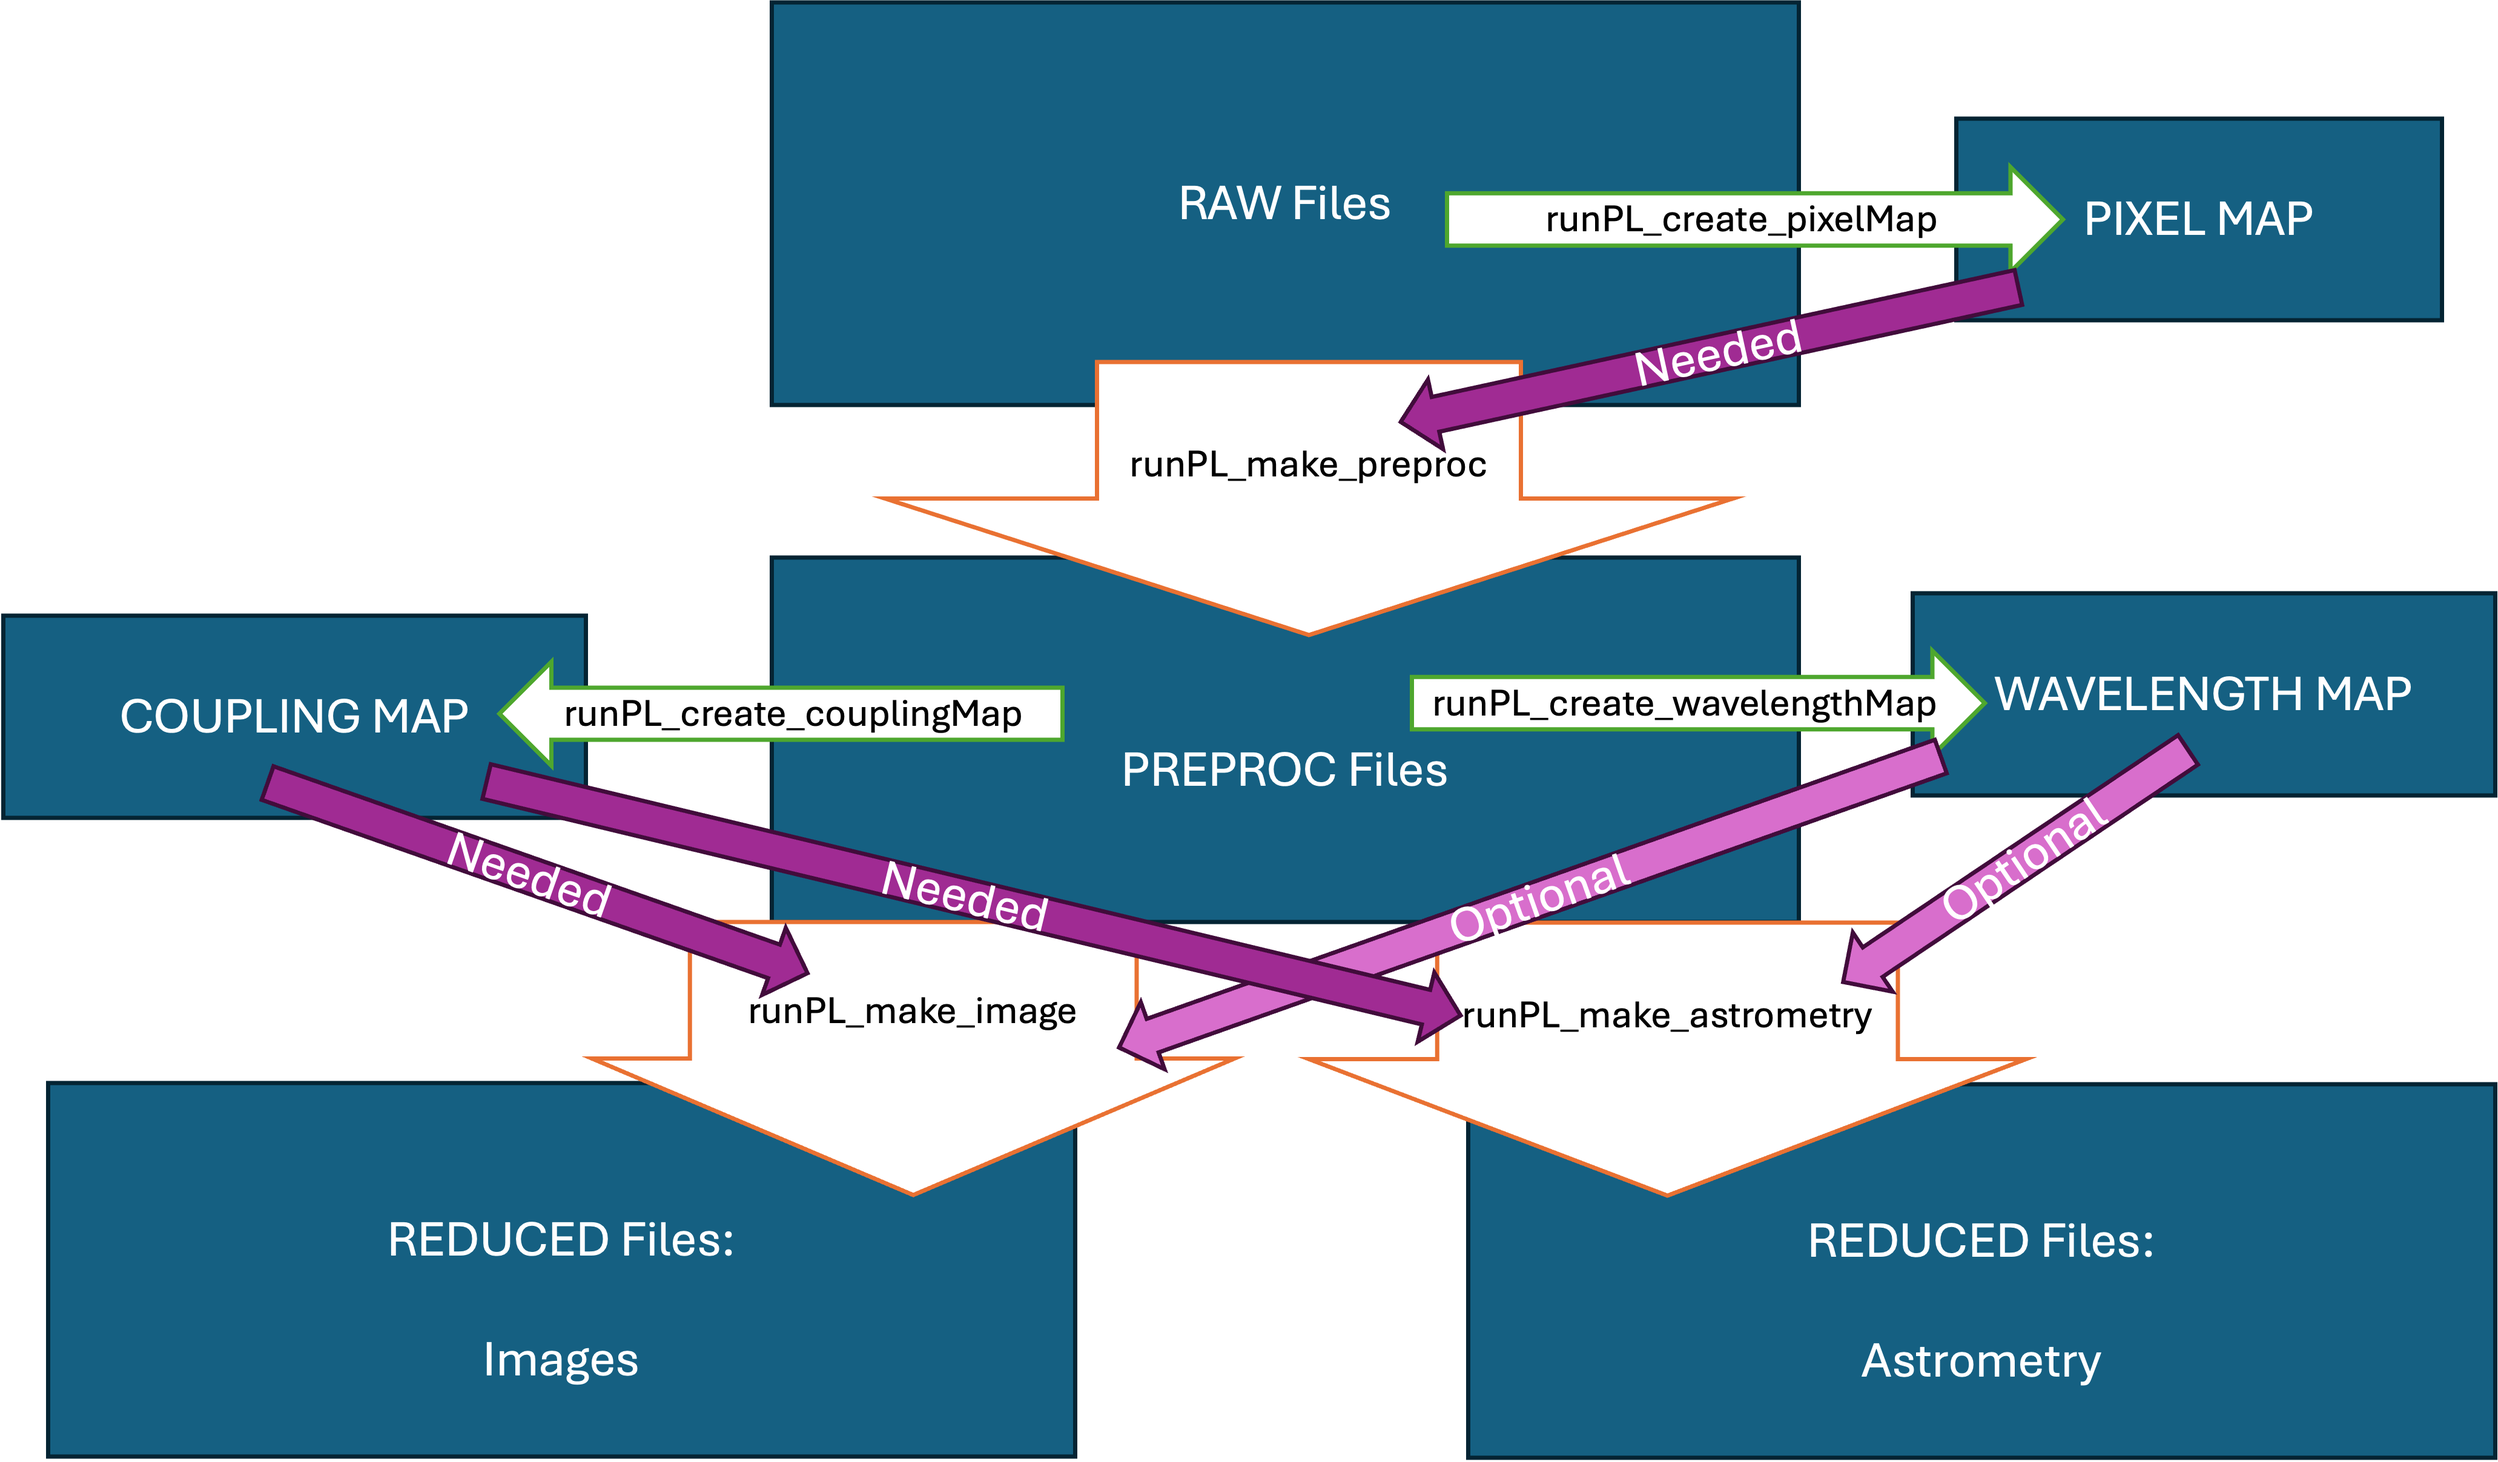
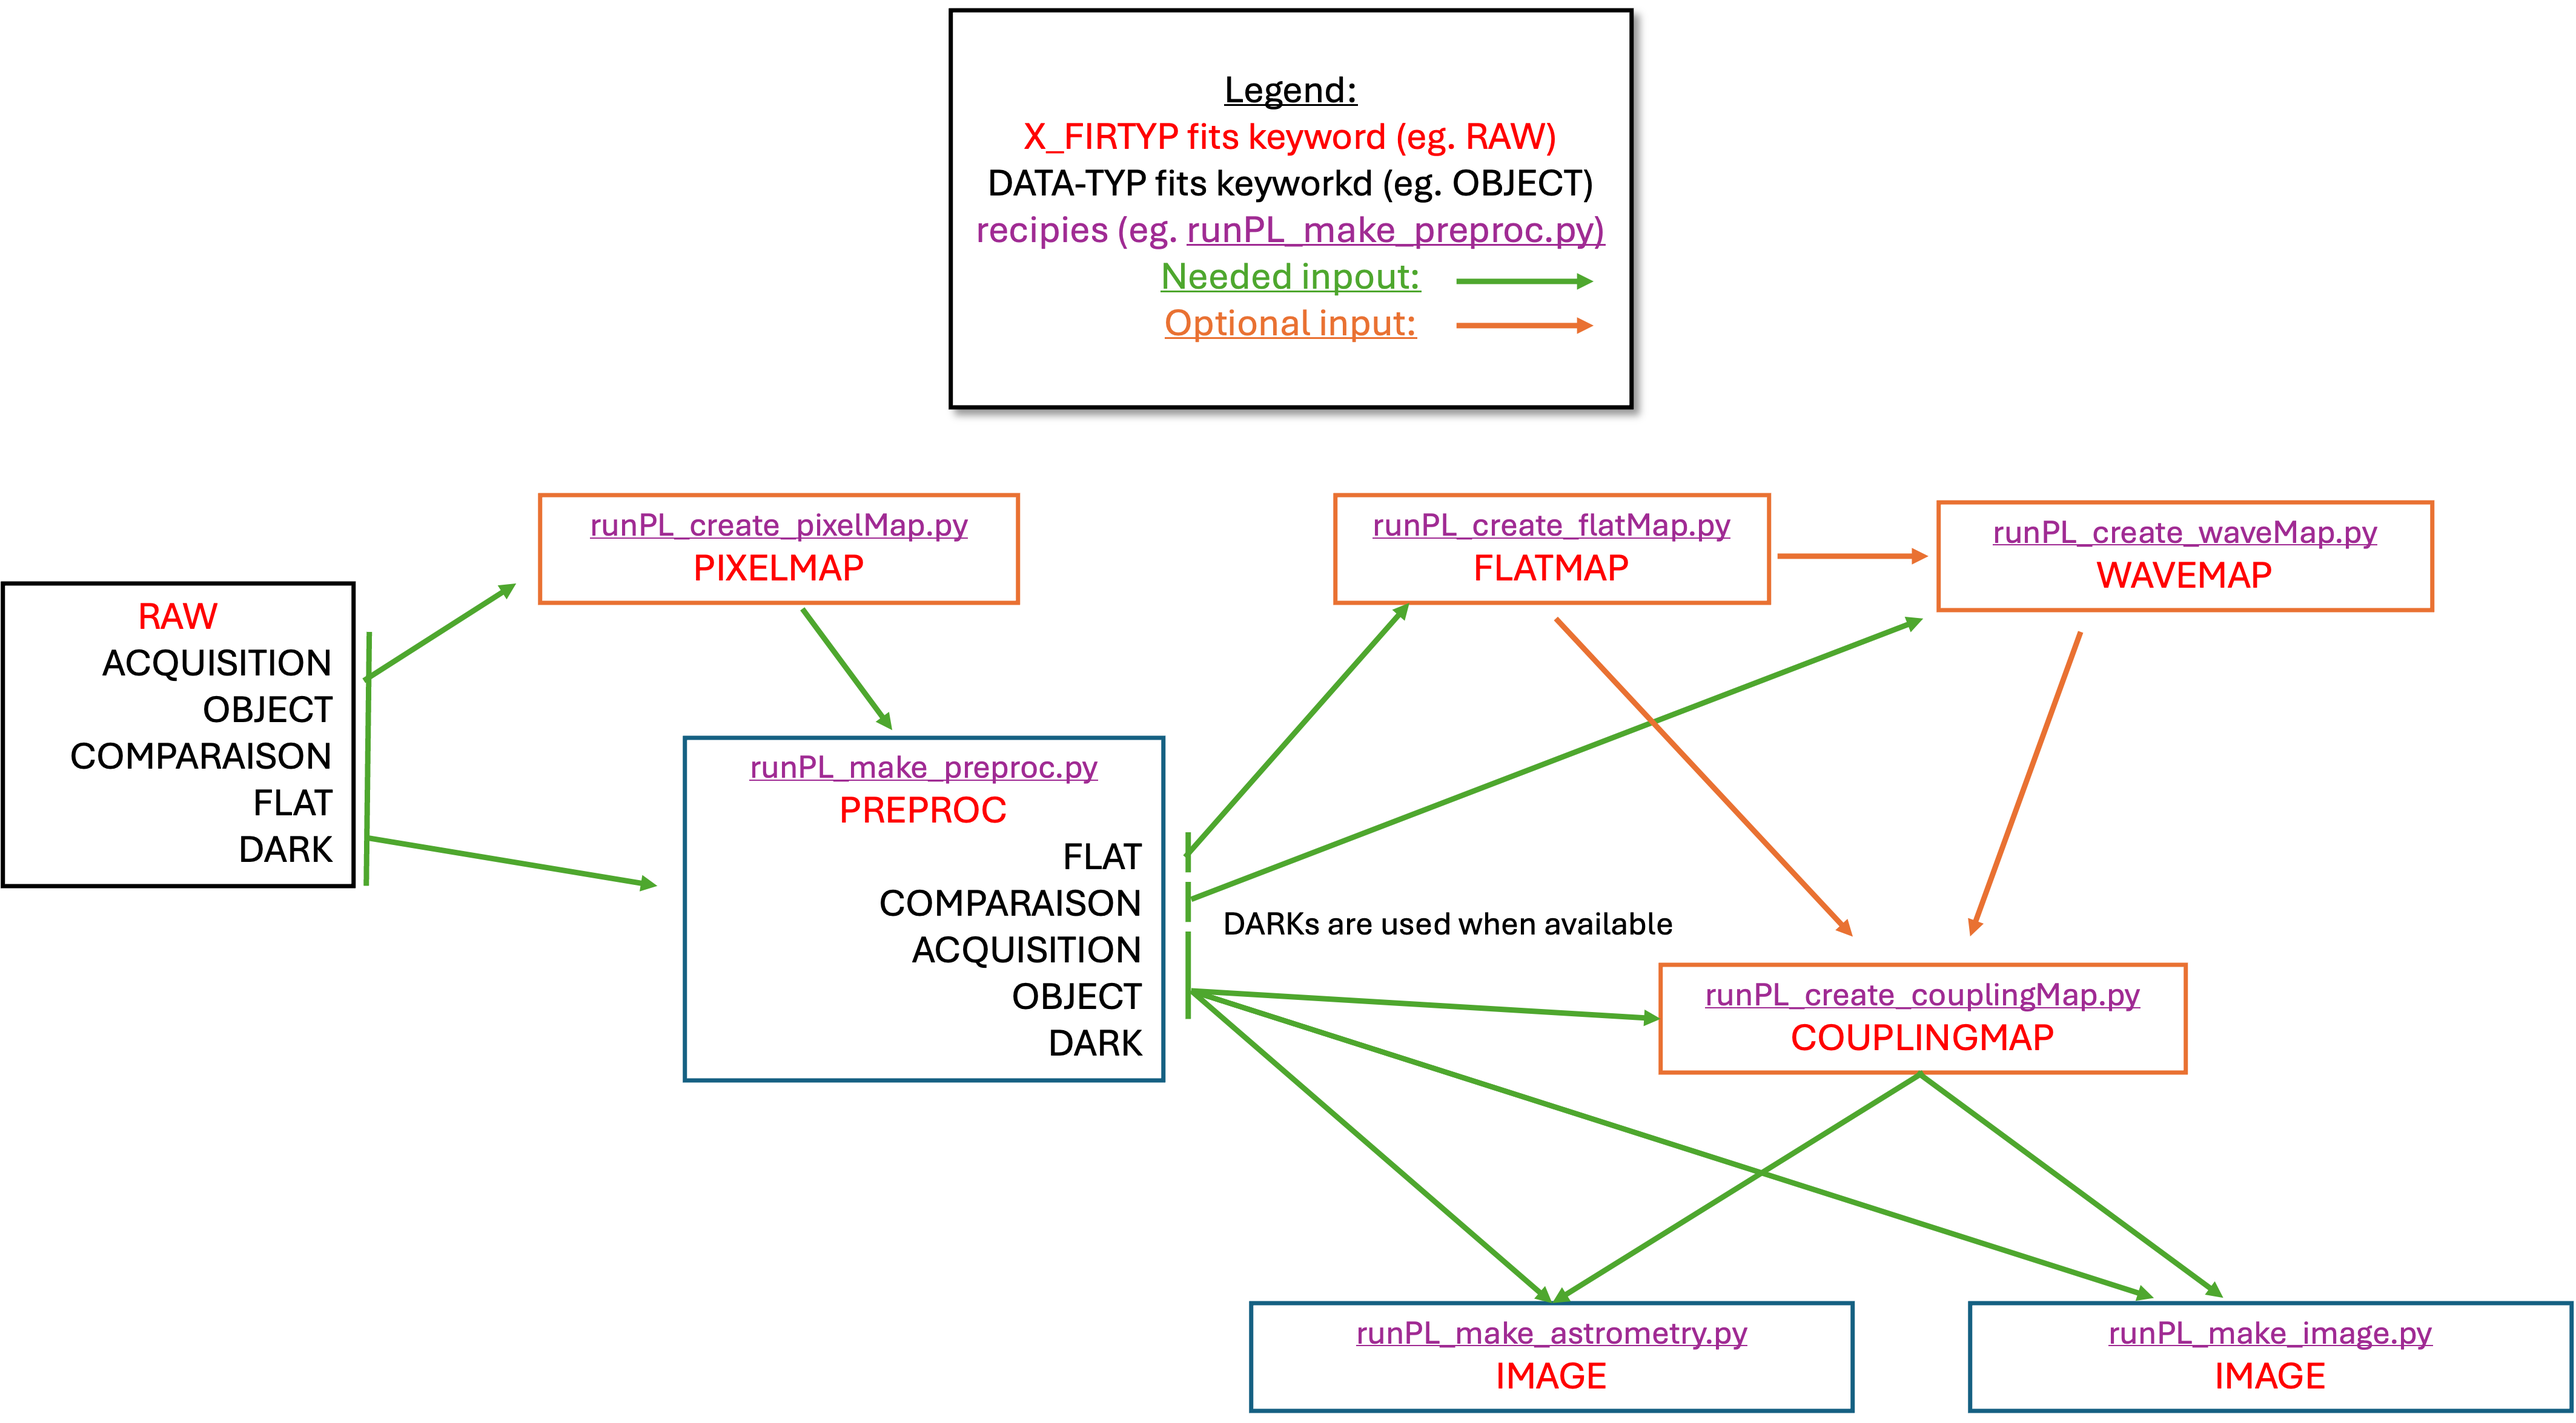
updated pipeline part

diff --git a/source/pipeline_recipies.md b/source/pipeline_recipies.md
@@ -1,9 +1,12 @@
-# Pipeline overview
+# Data organisation
+
+The scripts are designed to run sequentially, each handling a specific stage of data reduction, calibration, and analysis. 
+
+Two main FITS file keywords are to organise the data: "DATA-TYP" and "X_FIRTYP". The first keyword is specific to SUBARU, the second one is specific to the FIRST instrument.
+
+The user will give the files as arguments to the each script. If none argument is given, the script will look for all files within current directory. The script will automatically select relevant data based on the FITS keywords.
 
 ![](overview.png) 
-
-Pipeline to reduce the FIRST data (using the Visible Photonic Lantern) at SUBARU/SCEXAO.
-The scripts are designed to run sequentially, each handling a specific stage of data reduction, calibration, and analysis. FITS file keywords are used to determine file roles and processing steps.
 
 # Pipeline Structure
 
@@ -11,16 +14,24 @@ The scripts are designed to run sequentially, each handling a specific stage of 
 ```
 first_pipeline/
 ├── classes/          # Data structure classes
-│   ├── runPL_class_couplingMap.py
-│   ├── runPL_class_dataCube.py
 │   ├── runPL_class_pixelMap.py
-│   └── runPL_class_flatMap.py
+│   ├── runPL_class_dataCube.py
+│   ├── runPL_class_flatMap.py
+│   ├── runPL_class_waveMap.py
+│   └── runPL_class_couplingMap.py
 ├── libraries/        # Utility functions
 │   ├── runPL_library_basic.py
 │   ├── runPL_library_io.py
 │   ├── runPL_library_linalg.py
 │   └── runPL_library_plots.py
-└── [main scripts]    # Primary pipeline scripts
+├── [main scripts]    # Primary pipeline scripts
+├── runPL_create_pixelMap.py
+├── runPL_make_preproc.py
+├── runPL_create_flatMap.py
+├── runPL_create_waveMap.py
+├── runPL_create_couplingMap.py
+├── runPL_make_image.py
+└── runPL_make_astrometry.py
 ```
 
 ## Workflow
@@ -31,9 +42,9 @@ first_pipeline/
 4. **Preprocess data**: `python runPL_make_preproc.py /data/directory`
 5. **Create flat field map**: `python runPL_create_flatMap.py *.fits`
 6. **Generate wavelength map**: `python runPL_create_waveMap.py *.fits`
-7. **Create coupling maps**: `python runPL_create_couplingMaps.py *.fits`
-8. **Perform astrometry**: `python runPL_make_astrometry.py *.fits`
-9. **Reconstruct images**: `python runPL_make_image.py *.fits`
+7. **Create coupling maps**: `python runPL_create_couplingMap.py *.fits`
+8. **Perform astrometry if needed**: `python runPL_make_astrometry.py *.fits`
+9. **Reconstruct images if needed**: `python runPL_make_image.py *.fits`
 
 ## Key Components
 - **Shell and Python scripts**: Each major step is a separate script
